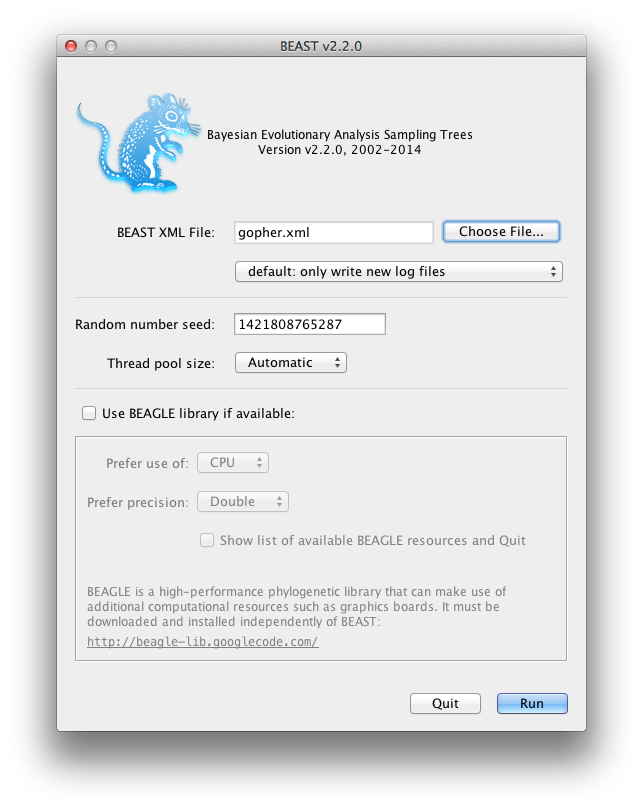
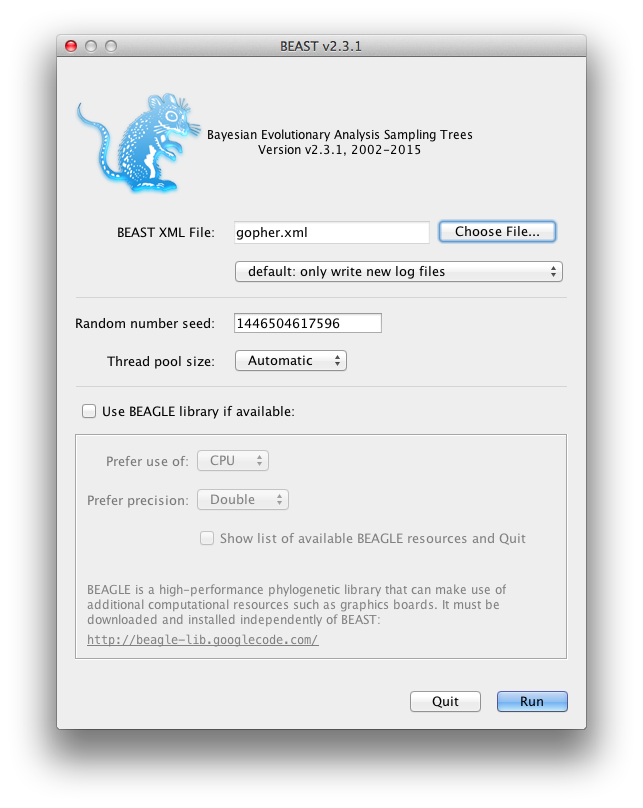
issue #26 Update *BEAST tutorial + add STACEY section

diff --git a/doc/tutorials/STARBEAST/StarBEAST_tutorial.tex b/doc/tutorials/STARBEAST/StarBEAST_tutorial.tex
@@ -17,7 +17,7 @@
 }
 
 % BEAST book specific commands
-\newcommand{\BEASTVersion}{2.2.x}
+\newcommand{\BEASTVersion}{2.3.x}
 \newcommand{\TracerVersion}{1.6}
 \newcommand{\FigTreeVersion}{1.4.2}
 
@@ -42,12 +42,12 @@ You will need the following software at your disposal:
 
 \begin{itemize}
 
-\item {\bf BEAST} - this package contains the BEAST program, BEAUti, TreeAnnotator and other utility programs. This tutorial is written for BEAST v{\BEASTVersion}, which has support for multiple partitions. It is available for download from \\* \texttt{http://www.beast2.org}.
+\item {\bf BEAST} \cite{beast}- this package contains the BEAST program, BEAUti, TreeAnnotator and other utility programs. This tutorial is written for BEAST v{\BEASTVersion}, which has support for multiple partitions. It is available for download from \texttt{http://beast2.org}.
 \item {\bf Tracer} - this program is used to explore the output of BEAST (and other Bayesian MCMC programs). It graphically and
 quantitively summarizes the distributions of continuous parameters and provides diagnostic information. At the time of
-writing, the current version is v{\TracerVersion}. It is available for download from \texttt{http://beast.bio.ed.ac.uk/}.
+writing, the current version is v{\TracerVersion}. It is available for download from \texttt{http://tree.bio.ed.ac.uk/software/figtree/}.
 \item {\bf FigTree} - this is an application for displaying and printing molecular phylogenies, in particular those obtained using
-BEAST. At the time of writing, the current version is v{\FigTreeVersion}. It is available for download from \texttt{http://tree.bio.ed.ac.uk/}.
+BEAST. At the time of writing, the current version is v{\FigTreeVersion}. It is available for download from \texttt{http://tree.bio.ed.ac.uk/software/tracer/}.
 \end{itemize}
 
 \section{*BEAST}
@@ -62,7 +62,7 @@ Run BEAUti by double clicking on its icon.
 
 \subsubsection*{Set up BEAUti for *BEAST}
 
-*BEAST uses a different template from the standard. This means that to use BEAUti for *BEAST, the first thing to do is change the template. Choose the File/Templates/StarBeast item. When changing a template, BEAUti deletes all previously imported data and start with a new empty template. So, if you already loaded some data, a warning message pops up indicating that this data will be lost if you switch templates.
+*BEAST uses a different template from the standard. This means that to use BEAUti for *BEAST, the first thing to do is change the template. Choose the File/Template/StarBeast item. When changing a template, BEAUti deletes all previously imported data and start with a new empty template. So, if you already loaded some data, a warning message pops up indicating that this data will be lost if you switch templates.
 
 \begin{figure}
 \centering
@@ -289,7 +289,7 @@ look something like this:
 
 {\tiny   
 \begin{verbatim}
-                        BEAST v2.2.0, 2002-2014
+                      BEAST v2.3.1, 2002-2015
              Bayesian Evolutionary Analysis Sampling Trees
                        Designed and developed by
  Remco Bouckaert, Alexei J. Drummond, Andrew Rambaut & Marc A. Suchard
@@ -471,7 +471,7 @@ but there is some support (over 16\%) that it is not.
 \item Drag the clade monticola and idahoensis up so that the 95\% HPD bar does not overlap with the one for mazama, monticola, idahoensis and talpoidis. Increase font size of the label for better readability.
 \end{itemize}
 
-The image should look something like Figure \ref{fig.DensiTree}
+The image should look something like Figure \ref{fig.DensiTree}.
 
 \begin{figure}
 \centering
@@ -501,7 +501,7 @@ option for the top. This looks a bit prettier, but may not be quite accurate.
 \includeimage[scale=0.18]{figures/species_population2}
 \end{figure}
 
-Alternatively, a consensus tree can be generated by biopy (\url{http://code.google.com/p/biopy/})
+Alternatively, a consensus tree can be generated by biopy (\url{https://github.com/jheled/biopy})
 with using 1-norm left, and 2-norm right.
 
 \begin{figure}
@@ -525,6 +525,62 @@ This gives us this visualisation:
 
 Using BEAUti, set up the same analysis but under the MCMC options, select the {\bf Sample from prior only} option. This will allow you to visualize the full prior distribution in the absence of your sequence data. Summarize the trees from the full prior
 distribution and compare the summary to the posterior summary tree.
+
+
+
+\section*{Bonus: Species delimitation using STACEY}
+
+Arguably, some of the gopher species in the dataset analysed so far belongs to a single species, judging from the posterior tree distribution in Figure \ref{fig.DensiTree}. To test this, we can run the same analysis as above with STACEY, which stands for Species Tree And Classification Estimation, Yarely. You need the following:
+\begin{itemize}
+\item STACEY package, easiest installed using the package manager from the BEAUti File/Manage packages menu.
+\item {\tt SpeciesDelimitationAnalyser}, available by downloading\\ {\tt http://www.indriid.com/2014/speciesDA.jar}.
+\end{itemize}
+
+You can find more documentation on how to set up an analysis and optimise some settings in the STACEY package documentation, which is part of the STACEY package (in the directory $<$BEAST package directory$>$/2.3/STACEY/doc/ where $<$BEAST package directory$>$ depends on the OS you are using. To find it, click the button with the question mark in the package manager dialog in BEAUti).
+
+To set up the analysis in BEAUti do the same as for the *BEAST analysis with the following changes:
+\begin{itemize}
+\item use the STACEY template instead of the StarBeast template.
+\item do {\bf not} change the tree prior in the priors tab.
+\item for the tutorial, set the chain length to 2 million for a coffee break of about 2 minutes, or higher to get more acceptable ESSs (and a longer coffee break).
+\end{itemize}
+
+Save the XML file and run it with BEAST.
+
+Analyse the log file using 
+\begin{verbatim}
+java -jar /path/to/speciesDA.jar -burnin 10 species_123456.trees out.txt
+\end{verbatim}
+where the number 123455 should be equal to the seed used to run BEAST. This creates a file {\tt out.txt} which looks something like this:
+
+\newpage
+{\tiny
+\begin{verbatim}
+count      fraction               similarity             nclusters  talpoides idahoensis townsendii umbrinus monticola bottae heterodus mazama 
+16         0.08376963350785341    165.85714285714275     5          1    4    5    5    4    5    2    3    
+19         0.09947643979057591    151.21428571428558     5          4    1    5    5    2    5    3    4    
+104        0.5445026178010471     139.92857142857142     6          1    2    6    6    3    6    4    5    
+2          0.010471204188481676   21.53571428571428      5          1    2    5    5    4    5    3    4    
+11         0.05759162303664921    17.5                   5          4    1    5    5    4    5    2    3    
+1          0.005235602094240838   15.85714285714286      6          5    1    2    6    5    6    3    4    
+2          0.010471204188481676   15.000000000000002     4          3    3    4    4    3    4    1    2    
+6          0.031413612565445025   14.57142857142857      7          1    2    3    7    4    7    5    6    
+10         0.05235602094240838    10.0                   4          2    3    4    4    3    4    1    2    
+2          0.010471204188481676   8.5                    5          1    4    5    5    2    5    3    4    
+1          0.005235602094240838   7.607142857142858      8          1    2    3    4    5    6    7    8    
+2          0.010471204188481676   4.7857142857142865     4          3    3    4    4    1    4    2    3    
+3          0.015706806282722512   3.9642857142857144     5          4    4    5    5    1    5    2    3    
+2          0.010471204188481676   3.857142857142857      6          1    5    2    6    5    6    3    4    
+2          0.010471204188481676   2.928571428571429      7          1    2    7    3    4    7    5    6    
+2          0.010471204188481676   2.0                    6          5    1    2    6    3    6    4    5    
+2          0.010471204188481676   2.0                    4          3    1    4    4    3    4    2    3    
+2          0.010471204188481676   2.0                    4          1    3    4    4    3    4    2    3    
+1          0.005235602094240838   1.0                    7          1    2    7    7    3    4    5    6    
+1          0.005235602094240838   1.0                    4          2    2    4    4    3    4    1    3 
+\end{verbatim}
+}
+
+Note that the third line (with count=104) suggests more than half the time the taxa townsendi, umbrinus and bottea form a single species.
 
 
 \bibliographystyle{plain}

diff --git a/src/beast/math/distributions/MRCAPrior.java b/src/beast/math/distributions/MRCAPrior.java
@@ -50,6 +50,8 @@ public class MRCAPrior extends Distribution {
     boolean isMonophyletic = false;
     boolean onlyUseTips = false;
     boolean useOriginate = false;
+    
+    boolean initialised = false;
 
     @Override
     public void initAndValidate() throws Exception {
@@ -84,28 +86,7 @@ public class MRCAPrior extends Distribution {
             throw new Exception("Taxonset must be specified OR tipsonly be set to true");
         }
         
-        // determine which taxa are in the set
-        taxonIndex = new int[nrOfTaxa];
-        if ( set != null )  {  // m_taxonset.get() != null) {
-            isInTaxaSet.clear();
-            int k = 0;
-            for (final String sTaxon : set) {
-                final int iTaxon = sTaxaNames.indexOf(sTaxon);
-                if (iTaxon < 0) {
-                    throw new Exception("Cannot find taxon " + sTaxon + " in data");
-                }
-                if (isInTaxaSet.contains(sTaxon)) {
-                    throw new Exception("Taxon " + sTaxon + " is defined multiple times, while they should be unique");
-                }
-                isInTaxaSet.add(sTaxon);
-                taxonIndex[k++] = iTaxon;
-            }
-        } else {
-            for (int i = 0; i < nrOfTaxa; i++) {
-                taxonIndex[i] = i;
-            }
-        }
-        
+       
         if (useOriginate && onlyUseTips) {
         	throw new Exception("'useOriginate' and 'tipsOnly' cannot be both true");
         }
@@ -161,6 +142,9 @@ public class MRCAPrior extends Distribution {
 
     @Override
     public double calculateLogP() throws Exception {
+    	if (!initialised) {
+    		initialise();
+    	}
         logP = 0;
         if (onlyUseTips) {
             // tip date
@@ -194,7 +178,41 @@ public class MRCAPrior extends Distribution {
         return logP;
     }
 
-    /**
+    private void initialise() {
+        // determine which taxa are in the set
+    	
+        List<String> set = null;
+        if (taxonsetInput.get() != null) {
+            set = taxonsetInput.get().asStringList();
+        }
+        final List<String> sTaxaNames = new ArrayList<>();
+        for (final String sTaxon : tree.getTaxaNames()) {
+            sTaxaNames.add(sTaxon);
+        }
+
+        taxonIndex = new int[nrOfTaxa];
+        if ( set != null )  {  // m_taxonset.get() != null) {
+            isInTaxaSet.clear();
+            int k = 0;
+            for (final String sTaxon : set) {
+                final int iTaxon = sTaxaNames.indexOf(sTaxon);
+                if (iTaxon < 0) {
+                    throw new RuntimeException("Cannot find taxon " + sTaxon + " in data");
+                }
+                if (isInTaxaSet.contains(sTaxon)) {
+                    throw new RuntimeException("Taxon " + sTaxon + " is defined multiple times, while they should be unique");
+                }
+                isInTaxaSet.add(sTaxon);
+                taxonIndex[k++] = iTaxon;
+            }
+        } else {
+            for (int i = 0; i < nrOfTaxa; i++) {
+                taxonIndex[i] = i;
+            }
+        }
+ 	}
+
+	/**
      * Recursively visit all leaf nodes, and collect number of taxa in the taxon
      * set. When all taxa in the set are visited, record the time.
      * *
